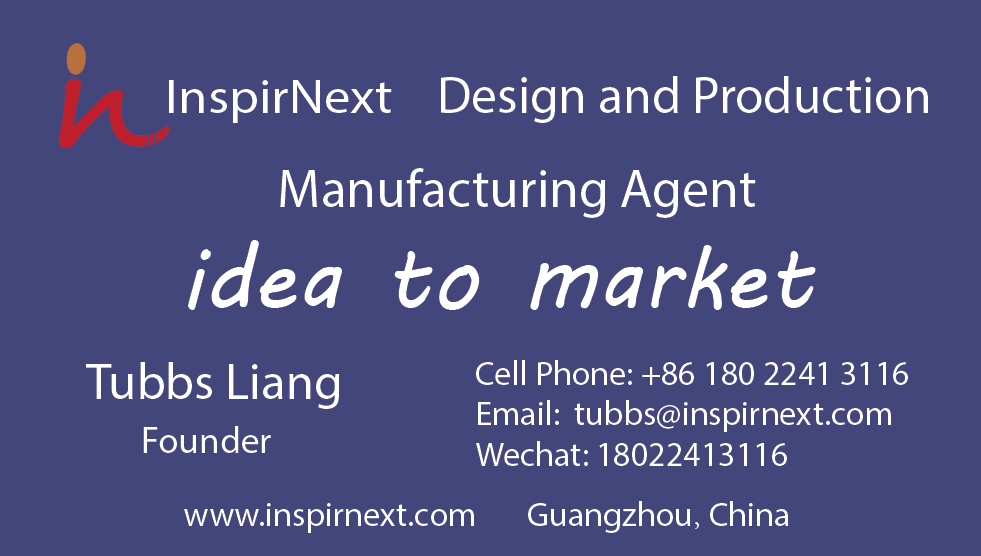
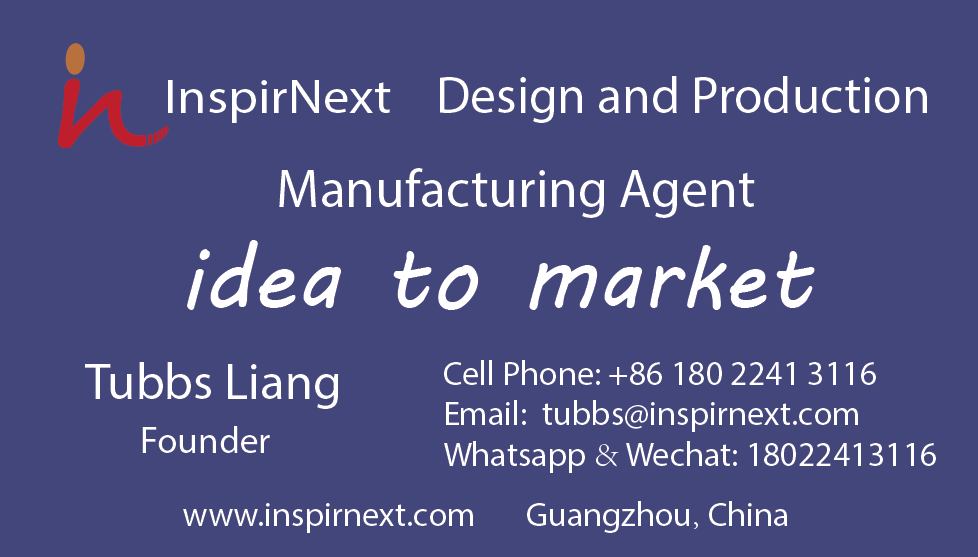
change 20250522

diff --git a/contact.html b/contact.html
@@ -100,7 +100,7 @@ function MM_swapImage() { //v3.0
     </tr>
     <tr>
       <td align="center" style="font-size: 20px"><a href="WeaChat.html" onMouseOut="MM_swapImgRestore()" onMouseOver="MM_swapImage('Weachat','','images/WC Logo Glow.png',1)"><img src="images/WC Logo.png" alt="" class="align-content-md-center" id="Weachat"></a></td>
-      <td align="center" valign="middle"><a href="https://api.whatsapp.com/send/?phone=8615360020438&text=Hello.+What+can+I+do+for+you%3F&type=phone_number&app_absent=0" onMouseOut="MM_swapImgRestore()" onMouseOver="MM_swapImage('Whatsapp','','images/Whatsapp Logo Glow.png',1)"><img id="Whatsapp" src="images/Whatsapp Logo.png" alt=""></a></td>
+      <td align="center" valign="middle"><a href="https://api.whatsapp.com/send/?phone=8618022413116&text=Hello.+What+can+I+do+for+you%3F&type=phone_number&app_absent=0" onMouseOut="MM_swapImgRestore()" onMouseOver="MM_swapImage('Whatsapp','','images/Whatsapp Logo Glow.png',1)"><img id="Whatsapp" src="images/Whatsapp Logo.png" alt=""></a></td>
       <td align="center" valign="middle"><a href="https://www.youtube.com/@InspirNext" onMouseOut="MM_swapImgRestore()" onMouseOver="MM_swapImage('Youtube','','images/Youtube Log Glow.png',1)"><img src="images/Youtube Log.png" alt="" width="263" height="63" id="Youtube"></a></td>
       <td align="center" valign="middle"><a href="https://www.tiktok.com/@tubbsl" onMouseOut="MM_swapImgRestore()" onMouseOver="MM_swapImage('TicTok','','images/Tiktok Logo Invert.png',1)"><img id="TicTok" src="images/Tiktok Logo.png" alt=""></a></td>
       <td align="center" valign="middle"><a href="https://www.facebook.com/lianghaishanliang/?rdid=fdttC1AOzArTFlj8" onMouseOut="MM_swapImgRestore()" onMouseOver="MM_swapImage('facebook','','images/Facebook Glow.png',1)"><img id="facebook" src="images/Facebook.png" alt=""></a></td>
